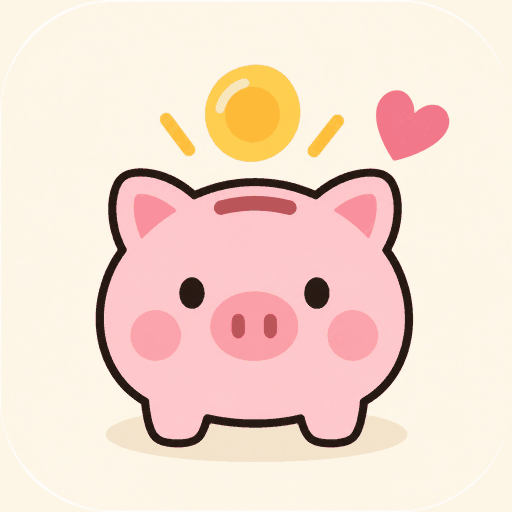
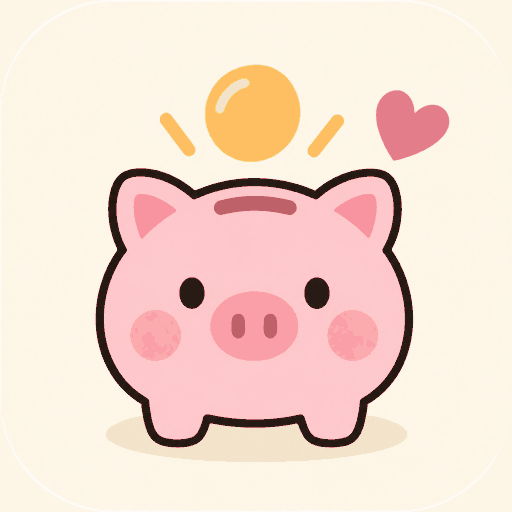
1.0.2: 안드로이드 뒤로 가기 수정

diff --git a/index.html b/index.html
@@ -4,6 +4,7 @@
 <meta charset="utf-8">
 <meta name="viewport" content="width=device-width, initial-scale=1, viewport-fit=cover, maximum-scale=1">
 <title>용돈기입장</title>
+<meta name="mobile-web-app-capable" content="yes">
 <meta name="apple-mobile-web-app-capable" content="yes">
 <meta name="apple-mobile-web-app-status-bar-style" content="default">
 <meta name="apple-mobile-web-app-title" content="용돈기입장">
@@ -11,6 +12,7 @@
 <link rel="manifest" href="manifest.webmanifest">
 <link rel="icon" href="icon-192.png">
 <link rel="apple-touch-icon" sizes="180x180" href="apple-touch-icon.png">
+<link rel="apple-touch-startup-image" href="splash.png">
 <style>
 :root{
   --paper:#FDFCFA;
@@ -249,7 +251,7 @@ button.srow{width:100%; text-align:left}
 "use strict";
 
 /* ══════════════════════ 유틸 ══════════════════════ */
-var APP_VERSION = "1.0.0";   // 올릴 때 sw.js 의 CACHE 도 같이
+var APP_VERSION = "1.0.2";   // 올릴 때 sw.js 의 CACHE 도 같이
 
 /* hex = 탭 밑줄·점(면), mid = 이름 글자(글자 대비용으로 어둡게). 키를 지우지 말 것 — 그 색을 쓰던 아이가 파랑으로 튄다 */
 var COLORS = {
@@ -423,7 +425,7 @@ function moneyRows(n){
 function renderKidView(){
   var c=childOf(S.kidView), col=COLORS[(c||{}).color]||COLORS.blue;
   var v=el("div","kid"); v.style.setProperty("--c-mid",col.mid);
-  v.onclick=function(){ S.kidView=null; render(); };
+  v.onclick=navBack;
   var x=el("button","x","\u2715"); x.setAttribute("aria-label","닫기"); v.appendChild(x);
   var pig=document.createElement("img"); pig.className="pig"; pig.src="logo-pig.png"; pig.alt=""; v.appendChild(pig);
   v.appendChild(el("div","kn",c?c.name:""));
@@ -498,7 +500,7 @@ function renderHome(){
   }
   bar.appendChild(el("div","sp"));
   var gear=el("button","gear","\u2699"); gear.setAttribute("aria-label","설정");
-  gear.onclick=function(){ S.screen="settings"; render(); };
+  gear.onclick=function(){ navOpen("settings", function(){ S.screen="settings"; }); };
   bar.appendChild(gear);
   wrap.appendChild(bar);
 
@@ -512,7 +514,7 @@ function renderHome(){
   bb.appendChild(el("b",null, fmt(balanceOf(c.id))));
   bb.appendChild(el("i",null,"원"));
   var pig=document.createElement("img"); pig.className="pig"; pig.src="logo-pig-sm.png"; pig.alt=""; bb.appendChild(pig);
-  bb.onclick=function(){ S.kidView=c.id; render(); };
+  bb.onclick=function(){ navOpen("kidView", function(){ S.kidView=c.id; }); };
   bal.appendChild(bb); wrap.appendChild(bal);
 
   var head=el("div","thead");
@@ -541,7 +543,7 @@ function renderHome(){
     r.appendChild(el("span","m"+(e.memo?"":" empty"), e.memo||"—"));
     r.appendChild(el("span","a"+(e.amount>0?" in":""), fmtSigned(e.amount)));
     r.appendChild(el("span","t",fmt(e.total)));
-    r.onclick=function(){ S.edit=Object.assign({}, e, {amountStr:String(Math.abs(e.amount)), sign:e.amount>0?1:-1, arm:false}); render(); };
+    r.onclick=function(){ navOpen("edit", function(){ S.edit=Object.assign({}, e, {amountStr:String(Math.abs(e.amount)), sign:e.amount>0?1:-1, arm:false}); }); };
     wrap.appendChild(r);
   });
   if(rows.length > shown.length){
@@ -566,7 +568,7 @@ function openingRow(c){
   r.appendChild(el("span","m","처음 금액"));
   r.appendChild(el("span","a",""));
   r.appendChild(el("span","t",fmt(c.opening_balance||0)));
-  r.onclick=function(){ S.editOpen={id:c.id, amountStr:String(c.opening_balance||0)}; render(); };
+  r.onclick=function(){ navOpen("editOpen", function(){ S.editOpen={id:c.id, amountStr:String(c.opening_balance||0)}; }); };
   return r;
 }
 
@@ -667,7 +669,7 @@ function submitNew(){
 /* ── 편집 시트 ── */
 function renderEditSheet(){
   var e=S.edit, frag=document.createDocumentFragment();
-  var dim=el("div","dim"); dim.onclick=function(){ S.edit=null; render(); }; frag.appendChild(dim);
+  var dim=el("div","dim"); dim.onclick=navBack; frag.appendChild(dim);
   var sh=el("div","sheet"); sh.appendChild(el("h3",null,e.auto_key?"자동 용돈 고치기":"고치기"));
   var f=el("div","f");
 
@@ -691,7 +693,7 @@ function renderEditSheet(){
   var del=el("button","btn danger"+(e.arm?" arm":""), e.arm?(isAuto?"정말 건너뛰기":"정말 삭제"):(isAuto?"이번 주 건너뛰기":"삭제"));
   del.onclick=function(){
     if(!e.arm){ e.arm=true; render(); return; }
-    var id=e.id; S.edit=null;
+    var id=e.id; navBack();
     if(isAuto){
       // 자동 줄은 지우면 다시 생기므로, 남겨두고 숨긴다
       var t=S.entries.find(function(x){return x.id===id;}); if(t) t.skipped=true; render();
@@ -701,11 +703,11 @@ function renderEditSheet(){
       store.deleteEntry(id).catch(function(err){ toast("삭제 실패: "+(err.message||err)); reload(); });
     }
   };
-  var cancel=el("button","btn","취소"); cancel.onclick=function(){ S.edit=null; render(); };
+  var cancel=el("button","btn","취소"); cancel.onclick=navBack;
   var save=el("button","btn pri","저장"); save.onclick=function(){
     var n=Number(e.amountStr); if(!(n>0)){ toast("금액을 넣어주세요"); return; }
     var patch={entry_date:e.entry_date, memo:(e.memo||"").trim(), amount:e.sign*n};
-    var id=e.id; S.edit=null;
+    var id=e.id; navBack();
     var t=S.entries.find(function(x){return x.id===id;}); if(t) Object.assign(t,patch);
     render();
     store.updateEntry(id,patch).catch(function(err){ toast("저장 실패: "+(err.message||err)); reload(); });
@@ -718,7 +720,7 @@ function renderEditSheet(){
 /* ── 매주 용돈 시트 ── */
 function renderWeekSheet(){
   var w=S.editWeek, c=childOf(w.id), frag=document.createDocumentFragment();
-  var close=function(){ S.editWeek=null; render(); };
+  var close=navBack;
   var dim=el("div","dim"); dim.onclick=close; frag.appendChild(dim);
   var sh=el("div","sheet"); sh.appendChild(el("h3",null,(c?c.name:"")+" · 매주 용돈"));
   var f=el("div","f");
@@ -743,7 +745,7 @@ function renderWeekSheet(){
     if(w.on && !(v>0)){ toast("금액을 넣어주세요"); return; }
     var patch={id:w.id, weekly_on:w.on, weekly_dow:w.dow, weekly_amount:v};
     if(w.on && (!c.weekly_on || c.weekly_dow!==w.dow)) patch.weekly_start=today();   // 켜거나 요일을 바꾸면 오늘부터
-    Object.assign(c, patch); S.editWeek=null; render();
+    Object.assign(c, patch); navBack();
     store.upsertChild(patch).then(reload).catch(function(err){ toast("저장 실패: "+(err.message||err)); reload(); });
   };
   btns.appendChild(cancel); btns.appendChild(save); f.appendChild(btns);
@@ -754,9 +756,9 @@ function renderWeekSheet(){
 /* ── 아이 지우기 시트 ── */
 function renderKidSheet(){
   var k=S.editKid, c=childOf(k.id);
-  if(!c){ S.editKid=null; return document.createDocumentFragment(); }
+  if(!c) return document.createDocumentFragment();   // 지워진 직후 한 프레임. 닫는 건 navCloseTop 이 한다
   var frag=document.createDocumentFragment();
-  var dim=el("div","dim"); dim.onclick=function(){ S.editKid=null; render(); }; frag.appendChild(dim);
+  var dim=el("div","dim"); dim.onclick=navBack; frag.appendChild(dim);
   var sh=el("div","sheet"); sh.appendChild(el("h3",null,c.name));
   var f=el("div","f");
   var n=entriesFor(c.id).length;
@@ -765,14 +767,14 @@ function renderKidSheet(){
   var del=el("button","btn danger"+(k.arm?" arm":""), k.arm?"정말 지우기":"지우기");
   del.onclick=function(){
     if(!k.arm){ k.arm=true; render(); return; }
-    var id=c.id; S.editKid=null;
+    var id=c.id; navBack();
     S.children=S.children.filter(function(x){return x.id!==id;});
     S.entries=S.entries.filter(function(e){return e.child_id!==id;});
     if(S.sel===id){ S.sel=S.children[0]?S.children[0].id:null; lsSet("yd_sel",S.sel||""); }
     S.limit=60; render();
     store.deleteChild(id).catch(function(err){ toast("지우기 실패: "+(err.message||err)); reload(); });
   };
-  var cancel=el("button","btn","취소"); cancel.onclick=function(){ S.editKid=null; render(); };
+  var cancel=el("button","btn","취소"); cancel.onclick=navBack;
   btns.appendChild(del); btns.appendChild(cancel); f.appendChild(btns);
   sh.appendChild(f); frag.appendChild(sh);
   return frag;
@@ -781,7 +783,7 @@ function renderKidSheet(){
 /* ── 처음 금액 시트 ── */
 function renderOpenSheet(){
   var o=S.editOpen, frag=document.createDocumentFragment();
-  var dim=el("div","dim"); dim.onclick=function(){ S.editOpen=null; render(); }; frag.appendChild(dim);
+  var dim=el("div","dim"); dim.onclick=navBack; frag.appendChild(dim);
   var sh=el("div","sheet"); sh.appendChild(el("h3",null,"처음 금액"));
   var f=el("div","f");
   var g=el("div"); g.appendChild(el("label",null,"금액"));
@@ -792,17 +794,30 @@ function renderOpenSheet(){
   bx.appendChild(ai); bx.appendChild(el("span",null,"원")); g.appendChild(bx); f.appendChild(g);
 
   var btns=el("div","btns");
-  var cancel=el("button","btn","취소"); cancel.onclick=function(){ S.editOpen=null; render(); };
+  var cancel=el("button","btn","취소"); cancel.onclick=navBack;
   var save=el("button","btn pri","저장"); save.onclick=function(){
     var v=Number(digits(o.amountStr))||0, id=o.id;
     var c=childOf(id); if(c) c.opening_balance=v;
-    S.editOpen=null; render();
+    navBack();
     store.upsertChild({id:id, opening_balance:v}).catch(function(err){ toast("저장 실패: "+(err.message||err)); reload(); });
   };
   btns.appendChild(cancel); btns.appendChild(save); f.appendChild(btns);
   sh.appendChild(f); frag.appendChild(sh);
   return frag;
 }
+
+/* ── 뒤로 가기 ──────────────────────────────────────
+   안드로이드 뒤로 가기 버튼·제스처가 앱을 끄지 않고 화면을 닫게 한다.
+   화면을 열 때 방문 기록을 하나 쌓고(navOpen), 닫는 건 전부 navBack() → popstate 한 곳에서 처리한다.
+   iOS 홈 화면 앱은 뒤로 가기가 없어서 스와이프(edgeSwipe)가 대신한다. */
+var navStack = [];                       // 열려 있는 화면들. 방문 기록 한 칸 = 이 배열 한 칸
+function navOpen(key, open){ open(); navStack.push(key); try{ history.pushState({d:navStack.length}, ""); }catch(e){} render(); }
+function navBack(){ if(navStack.length) history.back(); }   // 닫는 건 popstate 한 곳에서
+function navCloseTop(){
+  var k=navStack.pop(); if(!k) return;
+  if(k==="settings") S.screen="home"; else S[k]=null;       // 자기가 연 것만 닫는다
+}
+window.addEventListener("popstate", function(){ navCloseTop(); render(); });
 
 /* ── 왼쪽 가장자리 스와이프로 뒤로 (홈화면 앱엔 사파리 제스처가 없어서 직접) ── */
 function edgeSwipe(node, onBack){
@@ -835,7 +850,7 @@ function edgeSwipe(node, onBack){
 }
 
 /* ── 설정 ── */
-function leaveSettings(){ S.screen="home"; render(); }
+function leaveSettings(){ navBack(); }
 function renderSettings(){
   var wrap=el("div","screen page"); edgeSwipe(wrap, leaveSettings);
   var nav=el("div","nav");
@@ -861,7 +876,7 @@ function renderSettings(){
     r.appendChild(sw);
     if(S.children.length>1){
       var mo=el("button","kmore","\u22EF"); mo.setAttribute("aria-label",c.name+" 지우기");
-      mo.onclick=function(){ S.editKid={id:c.id, arm:false}; render(); };
+      mo.onclick=function(){ navOpen("editKid", function(){ S.editKid={id:c.id, arm:false}; }); };
       r.appendChild(mo);
     }
     kidCard.appendChild(r);
@@ -885,7 +900,7 @@ function renderSettings(){
     var on=c.weekly_on && c.weekly_dow!=null && c.weekly_amount>0;
     var v=el("span","val", on ? DOW[c.weekly_dow]+"요일 · "+fmt(c.weekly_amount)+"원" : "안 함"); if(!on) v.classList.add("off");
     r.appendChild(v); r.appendChild(el("span","chev","\u203A"));
-    r.onclick=function(){ S.editWeek={id:c.id, on:!!c.weekly_on, dow:c.weekly_dow==null?6:c.weekly_dow, amountStr:String(c.weekly_amount||"")}; render(); };
+    r.onclick=function(){ navOpen("editWeek", function(){ S.editWeek={id:c.id, on:!!c.weekly_on, dow:c.weekly_dow==null?6:c.weekly_dow, amountStr:String(c.weekly_amount||"")}; }); };
     wCard.appendChild(r);
   });
   wrap.appendChild(wCard);

diff --git a/tests/back.test.js b/tests/back.test.js
@@ -1,0 +1,50 @@
+// 안드로이드 뒤로 가기 — 화면이 닫히고, 다 닫히면 앱을 벗어난다
+const {chromium}=require('playwright');
+const path=require('path');
+let pass=0,fail=0; const T=(n,ok)=>{ok?pass++:fail++;console.log((ok?'OK   ':'FAIL ')+n);};
+const SEED=()=>{localStorage.setItem('yd_local_v1',JSON.stringify({family:{id:'f1',code:'K'},children:[
+ {id:'k1',name:'서윤',color:'pink',sort:0,opening_balance:10000,weekly_on:true,weekly_dow:6,weekly_amount:3000,weekly_start:'2026-09-01',created_at:'2026-07-01'},
+ {id:'k2',name:'하준',color:'yellow',sort:1,opening_balance:5000,weekly_on:false,weekly_amount:0,created_at:'2026-07-01'}],
+ entries:[{id:'e1',child_id:'k1',entry_date:'2026-09-14',memo:'젤리',amount:-800,auto_key:null,created_at:'2026-09-14T09:00:00Z'}]}));};
+(async()=>{
+const b=await chromium.launch(process.env.PW_CHROMIUM?{executablePath:process.env.PW_CHROMIUM}:{});
+const ctx=await b.newContext({viewport:{width:390,height:844},deviceScaleFactor:2,isMobile:true,hasTouch:true});
+const p=await ctx.newPage(); const errs=[];p.on('pageerror',e=>errs.push(e.message));
+await p.goto('file://'+path.resolve(__dirname,'../index.html')); await p.evaluate(SEED); await p.reload(); await p.waitForTimeout(600);
+const on=async s=>!!(await p.$(s));
+// 설정 → 뒤로
+await p.click('.gear'); await p.waitForTimeout(250);
+T('설정 열림', await on('.nav h2'));
+await p.goBack(); await p.waitForTimeout(300);
+T('뒤로 → 홈', await on('.bal') && !(await on('.nav h2')));
+// 설정 → 매주 용돈 시트 → 뒤로 두 번
+await p.click('.gear'); await p.waitForTimeout(200); await p.click('.srow.tap >> nth=0'); await p.waitForTimeout(250);
+T('시트 열림', await on('.sheet'));
+await p.goBack(); await p.waitForTimeout(300);
+T('뒤로 → 시트만 닫히고 설정 유지', !(await on('.sheet')) && await on('.nav h2'));
+await p.goBack(); await p.waitForTimeout(300);
+T('한 번 더 → 홈', await on('.bal'));
+// 아이 화면
+await p.click('.balbtn'); await p.waitForTimeout(250);
+T('아이 화면 열림', await on('.kid'));
+await p.goBack(); await p.waitForTimeout(300);
+T('뒤로 → 아이 화면 닫힘', !(await on('.kid')) && await on('.bal'));
+// 기록 고치기 시트 + 저장 후 기록이 하나 쌓이지 않는지
+await p.click('.row >> nth=0'); await p.waitForTimeout(250);
+T('고치기 시트', await on('.sheet'));
+await p.click('.sheet .btn.pri'); await p.waitForTimeout(350);
+T('저장하면 닫힘', !(await on('.sheet')) && await on('.bal'));
+T('저장 뒤 쌓인 기록 없음(뒤로 한 번이면 앱 밖)', (await p.evaluate(()=>history.state&&history.state.d||0))===0);
+// 취소도 같은지
+await p.click('.gear'); await p.waitForTimeout(200); await p.click('.srow.tap >> nth=0'); await p.waitForTimeout(200);
+await p.click('.sheet .btn:has-text("취소")'); await p.waitForTimeout(300);
+T('취소 → 설정으로', !(await on('.sheet')) && await on('.nav h2'));
+T('취소 뒤 남은 깊이 1(설정)', (await p.evaluate(()=>history.state&&history.state.d||0))===1);
+await p.goBack(); await p.waitForTimeout(300);
+T('뒤로 한 번 → 홈', await on('.bal'));
+// 처음 금액
+await p.click('.row.open'); await p.waitForTimeout(250);
+T('처음 금액 시트', await on('.sheet'));
+await p.goBack(); await p.waitForTimeout(300);
+T('뒤로 → 닫힘', !(await on('.sheet')));
+console.log(`\n${pass} passed, ${fail} failed`); console.log('errors:',errs.join('|')||'none'); await b.close(); process.exit(fail?1:0);})();

diff --git a/sw.js b/sw.js
@@ -1,7 +1,7 @@
 // 앱 껍데기만 캐시한다. 데이터는 항상 서버에서.
 // 배포할 때 index.html 의 APP_VERSION 과 같은 값으로 올린다 — 이름이 바뀌어야 옛 캐시가 버려진다.
-var CACHE = "yd-1.0.0";
-var ASSETS = ["./", "./index.html", "./config.js", "./manifest.webmanifest", "./icon-192.png", "./logo-pig-t.png", "./logo-pig.png", "./logo-pig-sm.png", "./icon-512.png", "./icon-maskable-192.png", "./icon-maskable-512.png", "./apple-touch-icon.png",
+var CACHE = "yd-1.0.2";
+var ASSETS = ["./", "./index.html", "./config.js", "./manifest.webmanifest", "./icon-192.png", "./logo-pig-t.png", "./splash.png", "./logo-pig.png", "./logo-pig-sm.png", "./icon-512.png", "./icon-maskable-192.png", "./icon-maskable-512.png", "./apple-touch-icon.png",
   "https://cdn.jsdelivr.net/npm/@supabase/supabase-js@2.45.4/dist/umd/supabase.min.js"];
 self.addEventListener("install", function(e){ e.waitUntil(caches.open(CACHE).then(function(c){ return c.addAll(ASSETS); }).then(function(){ return self.skipWaiting(); })); });
 self.addEventListener("activate", function(e){ e.waitUntil(caches.keys().then(function(ks){ return Promise.all(ks.filter(function(k){return k!==CACHE;}).map(function(k){return caches.delete(k);})); }).then(function(){ return self.clients.claim(); })); });

diff --git a/logo/make_icons.py b/logo/make_icons.py
@@ -21,7 +21,7 @@ def save(im, name):
        평평해야 할 면에 미세한 얼룩이 있고, 그대로 PNG로 넣으면 파일이 4배 커진다."""
     if im.mode == "RGB":
         im = im.filter(ImageFilter.MedianFilter(3)).quantize(
-                colors=128, method=Image.MEDIANCUT, dither=Image.NONE)
+                colors=64, method=Image.MEDIANCUT, dither=Image.NONE)
     im.save(os.path.join(OUT, name), optimize=True)
     kb = os.path.getsize(os.path.join(OUT, name)) // 1024
     print(" ", name, f"{kb}KB")
@@ -59,5 +59,13 @@ def transparent(box, size, name):
     out = Image.fromarray(np.dstack([a.astype("uint8"), (alpha * 255).astype("uint8")]), "RGBA").resize(size, Image.LANCZOS)
     out.save(os.path.join(OUT, name), optimize=True); print(" ", name, os.path.getsize(os.path.join(OUT, name)) // 1024, "KB")
 transparent((86, 110, 930, 910), (422, 400), "logo-pig-t.png")     # 시작 화면 (동전·하트 포함, 돼지 중심 대칭)
+
+# iOS 실행 화면(홈 화면 앱을 열 때 잠깐 뜨는 화면). iOS 는 manifest 를 안 보고 이 이미지를 쓴다.
+# 기기별 크기를 다 만드는 대신 한 장으로 둔다 — 크림 단색 바탕에 돼지가 가운데라 어떤 비율로 잘려도 멀쩡하다.
+sp = Image.new("RGB", (1320, 2868), CREAM)
+pig = master.crop((86, 110, 930, 910))
+pw = int(1320 * 0.34); ph = int(pw * pig.height / pig.width)
+sp.paste(pig.resize((pw, ph), Image.LANCZOS), ((1320 - pw) // 2, (2868 - ph) // 2))
+save(sp, "splash.png")
 transparent((190, 320, 840, 900), (112, 100), "logo-pig-sm.png")   # 잔액 옆
 print("done")

diff --git a/README.md b/README.md
@@ -70,7 +70,8 @@ URL은 `https://<ref>.supabase.co` 까지만 넣습니다. `/rest/v1` 같은 경
 
 파일을 덮어쓰고 push 하면 됩니다. `config.js`는 건드리지 않습니다.
 화면과 기능은 재설치 없이 반영됩니다 (앱을 두 번 열면 새 버전. 설정 맨 아래에 버전 표시).
-**아이콘이 바뀐 경우**에만 홈 화면 앱을 지우고 다시 추가해야 합니다 — 지우기 전에 가족 코드를 확인해 두세요.
+**아이콘이나 실행 화면(`splash.png`)이 바뀐 경우**에만 홈 화면 앱을 지우고 다시 추가해야 합니다 — 지우기 전에 가족 코드를 확인해 두세요.
+iOS는 둘 다 설치 시점에 저장하기 때문입니다.
 
 배포 전 확인:
 - `index.html`의 `APP_VERSION`과 `sw.js`의 `CACHE`를 같은 버전으로 올립니다 (캐시 이름이 바뀌어야 옛 캐시가 버려집니다)
@@ -106,7 +107,8 @@ npm run icons
 ```
 
 홈 화면 아이콘(`icon-192/512`, `apple-touch-icon`), 안드로이드용 maskable(안전 영역에 맞춰 0.84배),
-아이 화면용 `logo-pig`, 배경 투명 판 `logo-pig-t`(시작 화면)와 `logo-pig-sm`(잔액 옆)이 생성됩니다.
+아이 화면용 `logo-pig`, 배경 투명 판 `logo-pig-t`(시작 화면)와 `logo-pig-sm`(잔액 옆),
+iOS 실행 화면 `splash.png`가 생성됩니다.
 
 ### 설계 메모
 - 글자 크기는 7단계(`--t1`~`--t7`), 간격은 4px 격자(`--s1`~`--s6`)만 씁니다. 입력칸은 16px 이상 (iOS 확대 방지)

diff --git a/CHANGELOG.md b/CHANGELOG.md
@@ -2,6 +2,26 @@
 
 형식은 [Keep a Changelog](https://keepachangelog.com/ko/1.1.0/), 버전은 [Semantic Versioning](https://semver.org/lang/ko/)을 따릅니다.
 
+## [1.0.2] - 2026-09-16
+
+### 수정
+- **안드로이드 뒤로 가기.** 설정 화면이나 시트를 열고 뒤로 가기를 누르면 앱이 종료됐습니다.
+  이제 열려 있는 화면이 하나씩 닫히고, 다 닫힌 뒤에 눌러야 앱을 벗어납니다.
+  (iOS 홈 화면 앱에는 뒤로 가기가 없어 왼쪽 가장자리 스와이프가 그 역할을 합니다)
+
+### 변경
+- `mobile-web-app-capable` 메타 태그 추가 (크롬 경고)
+
+## [1.0.1] - 2026-09-16
+
+### 변경
+- 시작 화면 로고를 배경 없는 그림으로 (흰 바탕 위에 크림색 사각형이 보이던 문제)
+- 설정 화면의 버전 표기를 `v1.0.0` 형식으로
+
+### 추가
+- iOS 실행 화면(`splash.png`). 홈 화면 앱을 열 때 흰 바탕에 아이콘이 뜨는 대신 크림 바탕에 로고가 나옵니다.
+  iOS는 이 이미지를 설치 시점에 저장하므로, 홈 화면 앱을 지우고 다시 추가해야 반영됩니다.
+
 ## [1.0.0] - 2026-09-16
 
 첫 정식 버전. 이전의 v6~v14 내부 버전을 정리한 것으로, 그 사이에 DB 스키마 변경은 없습니다.
